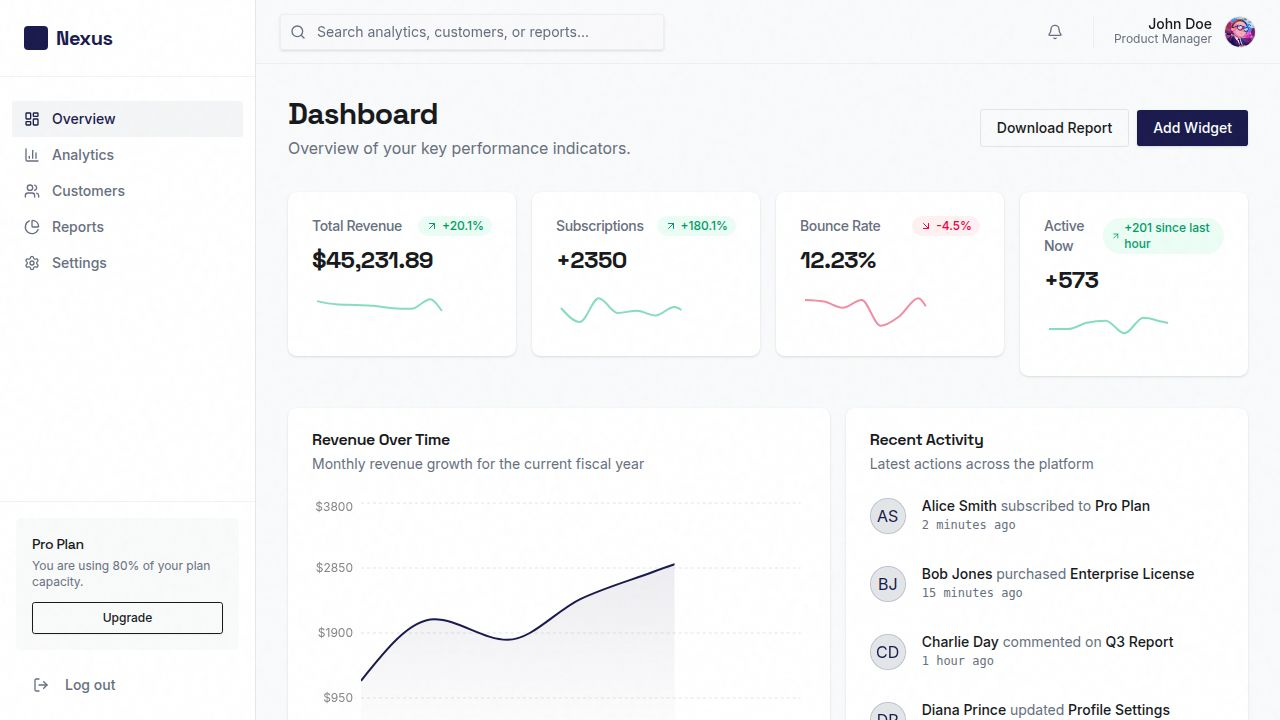
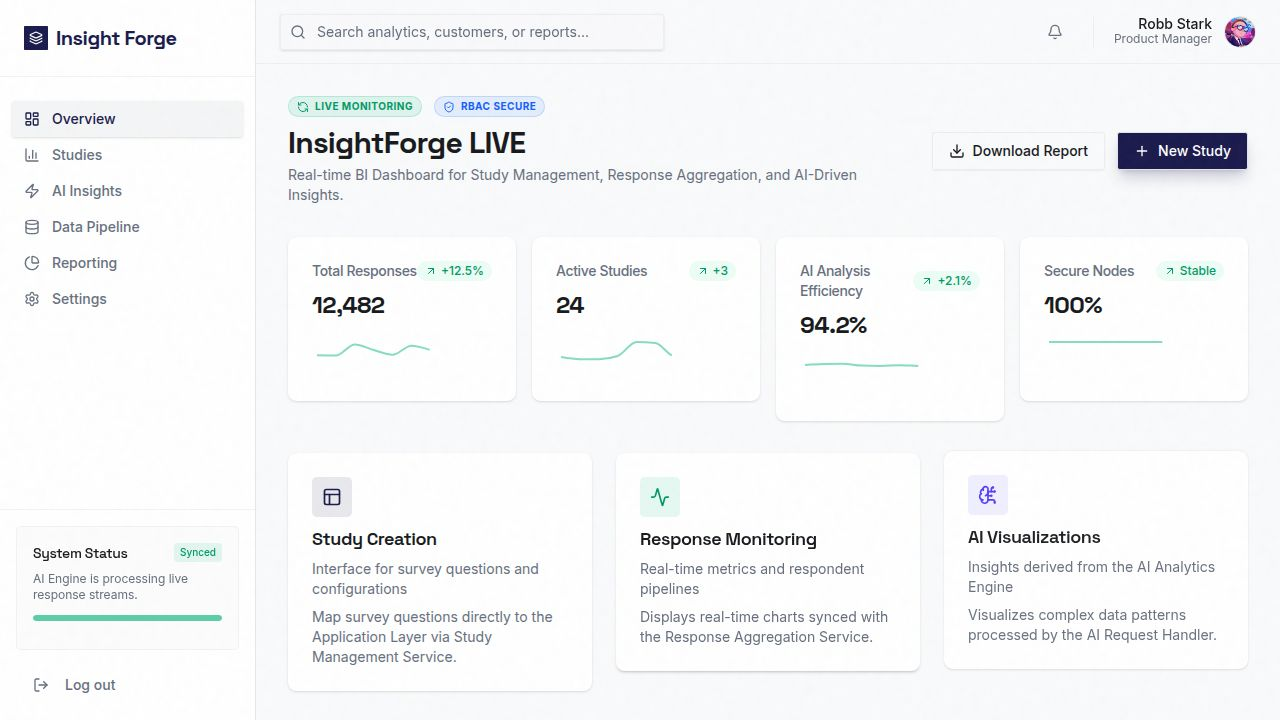
Update dashboard to reflect InsightForge LIVE branding and features
Refactor `client/src/pages/dashboard.tsx` to integrate new branding, update status indicators, and add new feature mapping cards.

Replit-Commit-Author: Agent
Replit-Commit-Session-Id: 4f93e459-440e-407a-9dcd-07161a90505f
Replit-Commit-Checkpoint-Type: full_checkpoint
Replit-Commit-Event-Id: 1748f9b4-f245-462d-9b16-aefba1a224bc
Replit-Commit-Screenshot-Url: https://storage.googleapis.com/screenshot-production-us-central1/8789bbd1-f875-48fb-a403-a1fc106106f7/4f93e459-440e-407a-9dcd-07161a90505f/mNcSnjt
Replit-Helium-Checkpoint-Created: true

diff --git a/client/src/pages/dashboard.tsx b/client/src/pages/dashboard.tsx
@@ -15,8 +15,12 @@ import {
   ShieldCheck, 
   Layers, 
   Zap, 
-  RefreshCcw 
+  RefreshCcw,
+  FileText,
+  Search,
+  Layout
 } from "lucide-react";
+import { Card, CardContent, CardHeader, CardTitle, CardDescription } from "@/components/ui/card";
 
 const kpiData = [
   {
@@ -77,26 +81,26 @@ export default function Dashboard() {
               <div className="flex items-center gap-3 mb-2">
                 <div className="flex items-center gap-1.5 px-2 py-0.5 rounded-full bg-emerald-500/10 text-emerald-600 border border-emerald-500/20">
                   <RefreshCcw className="h-3 w-3 animate-spin-slow" />
-                  <span className="text-[10px] font-bold uppercase tracking-wider">Real-time Stream</span>
+                  <span className="text-[10px] font-bold uppercase tracking-wider">Live Monitoring</span>
                 </div>
                 <div className="flex items-center gap-1.5 px-2 py-0.5 rounded-full bg-blue-500/10 text-blue-600 border border-blue-500/20">
                   <ShieldCheck className="h-3 w-3" />
                   <span className="text-[10px] font-bold uppercase tracking-wider">RBAC Secure</span>
                 </div>
               </div>
-              <h1 className="text-3xl font-display font-bold tracking-tight text-foreground">Insight Forge</h1>
+              <h1 className="text-3xl font-display font-bold tracking-tight text-foreground">InsightForge LIVE</h1>
               <p className="text-muted-foreground mt-1 text-sm max-w-2xl">
-                Modular BI architecture with decoupled AI analytics and secure data synchronization.
+                Real-time BI Dashboard for Study Management, Response Aggregation, and AI-Driven Insights.
               </p>
             </div>
             <div className="flex items-center gap-3">
               <Button variant="outline" className="gap-2 border-border/60 hover:bg-accent/50">
                 <Download className="h-4 w-4" />
-                Export
+                Download Report
               </Button>
               <Button className="gap-2 shadow-lg shadow-primary/20 bg-primary hover:bg-primary/90">
                 <Plus className="h-4 w-4" />
-                Deploy Study
+                New Study
               </Button>
             </div>
           </div>
@@ -116,6 +120,52 @@ export default function Dashboard() {
               ))}
             </div>
 
+            {/* Feature Mapping Area */}
+            <div className="grid gap-6 lg:grid-cols-3 mb-8">
+              <motion.div variants={item}>
+                 <Card className="border-none shadow-sm hover:shadow-md transition-all duration-300">
+                    <CardHeader className="pb-2">
+                      <div className="h-10 w-10 rounded-lg bg-primary/10 flex items-center justify-center text-primary mb-2">
+                        <Layout className="h-5 w-5" />
+                      </div>
+                      <CardTitle className="text-lg font-display">Study Creation</CardTitle>
+                      <CardDescription>Interface for survey questions and configurations</CardDescription>
+                    </CardHeader>
+                    <CardContent className="text-sm text-muted-foreground">
+                       Map survey questions directly to the Application Layer via Study Management Service.
+                    </CardContent>
+                 </Card>
+              </motion.div>
+              <motion.div variants={item}>
+                 <Card className="border-none shadow-sm hover:shadow-md transition-all duration-300">
+                    <CardHeader className="pb-2">
+                      <div className="h-10 w-10 rounded-lg bg-emerald-500/10 flex items-center justify-center text-emerald-600 mb-2">
+                        <Activity className="h-5 w-5" />
+                      </div>
+                      <CardTitle className="text-lg font-display">Response Monitoring</CardTitle>
+                      <CardDescription>Real-time metrics and respondent pipelines</CardDescription>
+                    </CardHeader>
+                    <CardContent className="text-sm text-muted-foreground">
+                       Displays real-time charts synced with the Response Aggregation Service.
+                    </CardContent>
+                 </Card>
+              </motion.div>
+              <motion.div variants={item}>
+                 <Card className="border-none shadow-sm hover:shadow-md transition-all duration-300">
+                    <CardHeader className="pb-2">
+                      <div className="h-10 w-10 rounded-lg bg-indigo-500/10 flex items-center justify-center text-indigo-600 mb-2">
+                        <BrainCircuit className="h-5 w-5" />
+                      </div>
+                      <CardTitle className="text-lg font-display">AI Visualizations</CardTitle>
+                      <CardDescription>Insights derived from the AI Analytics Engine</CardDescription>
+                    </CardHeader>
+                    <CardContent className="text-sm text-muted-foreground">
+                       Visualizes complex data patterns processed by the AI Request Handler.
+                    </CardContent>
+                 </Card>
+              </motion.div>
+            </div>
+
             {/* Main Content Area */}
             <div className="grid gap-4 lg:grid-cols-7">
               <motion.div variants={item} className="lg:col-span-4">
@@ -132,35 +182,32 @@ export default function Dashboard() {
                     <div className="h-10 w-10 rounded-lg bg-primary/10 flex items-center justify-center text-primary mb-4 group-hover:scale-110 transition-transform">
                       <Layers className="h-5 w-5" />
                     </div>
-                    <h3 className="font-display font-semibold mb-2">Modular Core</h3>
-                    <p className="text-xs text-muted-foreground leading-relaxed">Separated concerns between presentation and application layers for maximum scalability.</p>
-                    <div className="absolute top-2 right-2 opacity-20 group-hover:opacity-100 transition-opacity">
-                      <Zap className="h-3 w-3 text-primary" />
-                    </div>
+                    <h3 className="font-display font-semibold mb-2 text-sm">Modular & Scalable</h3>
+                    <p className="text-[11px] text-muted-foreground leading-relaxed">Separated concerns between presentation and application layers for maximum growth potential.</p>
                  </motion.div>
 
                  <motion.div variants={item} className="group p-5 rounded-xl border border-border bg-card/40 hover:bg-card hover:border-emerald-500/30 transition-all duration-300 shadow-sm cursor-pointer">
                     <div className="h-10 w-10 rounded-lg bg-emerald-500/10 flex items-center justify-center text-emerald-600 mb-4 group-hover:scale-110 transition-transform">
-                      <Activity className="h-5 w-5" />
+                      <RefreshCcw className="h-5 w-5" />
                     </div>
-                    <h3 className="font-display font-semibold mb-2">Real-time Stream</h3>
-                    <p className="text-xs text-muted-foreground leading-relaxed">Integrated pipeline for sub-second synchronization of respondent data across all nodes.</p>
+                    <h3 className="font-display font-semibold mb-2 text-sm">Real-time Core</h3>
+                    <p className="text-[11px] text-muted-foreground leading-relaxed">Integrated pipeline for sub-second synchronization of respondent data across nodes.</p>
                  </motion.div>
 
                  <motion.div variants={item} className="group p-5 rounded-xl border border-border bg-card/40 hover:bg-card hover:border-indigo-500/30 transition-all duration-300 shadow-sm cursor-pointer">
                     <div className="h-10 w-10 rounded-lg bg-indigo-500/10 flex items-center justify-center text-indigo-600 mb-4 group-hover:scale-110 transition-transform">
                       <BrainCircuit className="h-5 w-5" />
                     </div>
-                    <h3 className="font-display font-semibold mb-2">AI Integration</h3>
-                    <p className="text-xs text-muted-foreground leading-relaxed">Direct API connectivity to the analytics engine for automated insight extraction.</p>
+                    <h3 className="font-display font-semibold mb-2 text-sm">AI Integration</h3>
+                    <p className="text-[11px] text-muted-foreground leading-relaxed">Direct API connectivity to the analytics engine for automated insight extraction.</p>
                  </motion.div>
 
-                 <motion.div variants={item} className="group p-5 rounded-xl border border-border bg-card/40 hover:bg-card hover:border-amber-500/30 transition-all duration-300 shadow-sm cursor-pointer">
-                    <div className="h-10 w-10 rounded-lg bg-amber-500/10 flex items-center justify-center text-amber-600 mb-4 group-hover:scale-110 transition-transform">
+                 <motion.div variants={item} className="group p-5 rounded-xl border border-border bg-card/40 hover:bg-card hover:border-blue-500/30 transition-all duration-300 shadow-sm cursor-pointer">
+                    <div className="h-10 w-10 rounded-lg bg-blue-500/10 flex items-center justify-center text-blue-600 mb-4 group-hover:scale-110 transition-transform">
                       <ShieldCheck className="h-5 w-5" />
                     </div>
-                    <h3 className="font-display font-semibold mb-2">RBAC Security</h3>
-                    <p className="text-xs text-muted-foreground leading-relaxed">Role-based access controls enforcing strict isolation and data integrity.</p>
+                    <h3 className="font-display font-semibold mb-2 text-sm">Secure RBAC</h3>
+                    <p className="text-[11px] text-muted-foreground leading-relaxed">Role-based access controls enforcing strict isolation and data integrity.</p>
                  </motion.div>
             </div>
           </motion.div>
